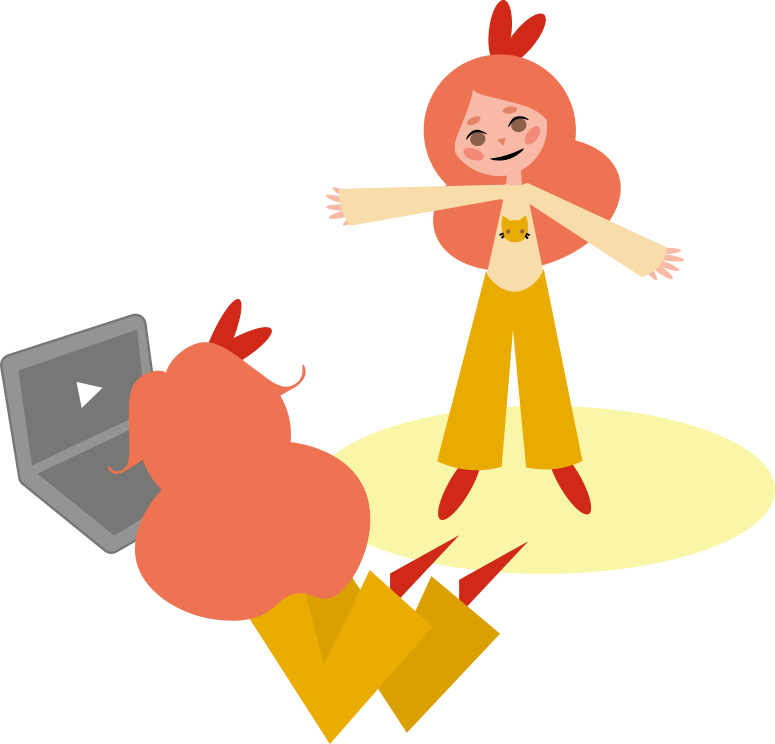
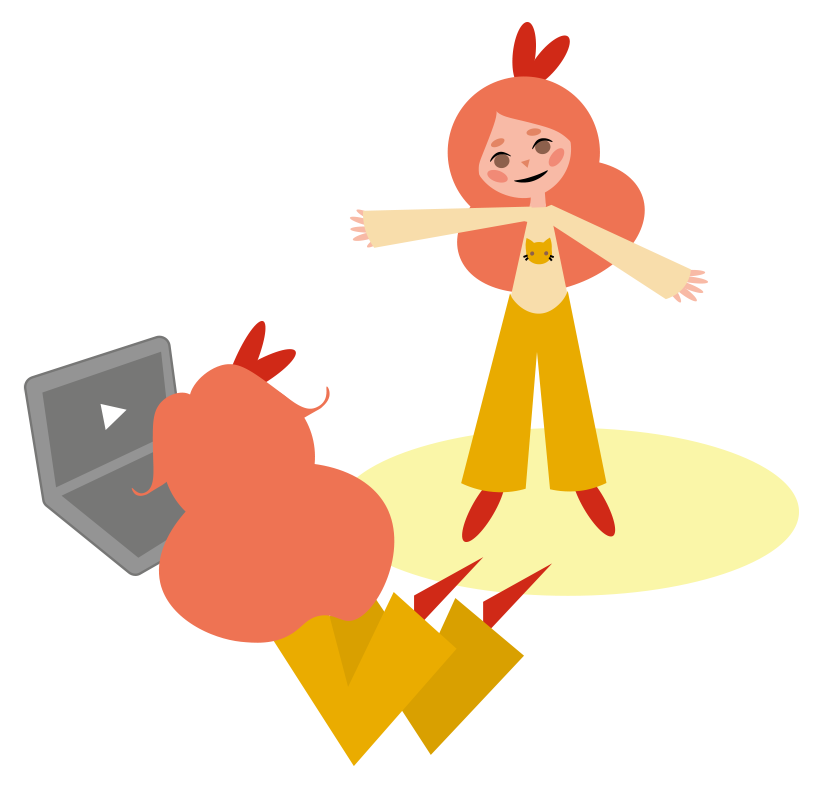
master

diff --git a/#source/scss/style.scss b/#source/scss/style.scss
@@ -169,19 +169,25 @@ img {
     }
     &__content {  
         display: flex;
-        padding: 100px 0;
+        padding: 30px 0 100px;
+        @media (min-width: 1441px) {
+            padding: 100px 0;
+        }
         @media (max-width: 1440px) {
-            flex-direction: column-reverse;
+            flex-direction: column;
         }
     }
     &__item {
         margin: 0px auto;
-        padding: 0 20px;
+        padding: 0 40px;
         @media (min-width: 1441px) {
             margin: -150px auto 0;
+            width: 50%;
         }
     }
     &__info {
+        margin: 0px auto;
+        text-align: justify;
         border-bottom: 5px solid #ee7353;
         @media (min-width: 1441px) {
             max-width: 700px;
@@ -218,22 +224,22 @@ img {
         }
     }
     &__img {
-        @media (min-width: 1921px) {
+        @media (min-width: 1441px) {
             width: 50%;
         }
-        @media (min-width: 1441px) {
-            margin: 0 50px 0 150px;
-        }
         @media (max-width: 1440px) {
-            width: 60%;
-            margin: 60px auto 0;
+            width: 80%;
+            margin: 0px auto 60px;
         }
         @media (max-width: 768px) {
             width: 90%;
-            margin: 60px auto 0;
+            margin: 0px auto 60px;
         }
         & img {
             width: 100%;
+            @media (min-width: 1441px) {
+                padding: 0 0px 0 70px;
+            }
         }
     }
 }
@@ -252,16 +258,21 @@ img {
     }
     &__content {  
         display: flex;
-        padding: 100px 0;
+        padding: 30px 0 100px;
+        @media (min-width: 1441px) {
+            padding: 100px 0;
+        }
         @media (max-width: 1440px) {
-            flex-direction: column-reverse;
+            flex-direction: column;
         }
     }
     &__item {
+        text-align: justify;
         margin: 0 auto;
-        padding: 0 20px;
+        padding: 0 40px;
         @media (min-width: 1441px) {
             margin: -150px auto 0;
+            width: 50%;
         }
     }
     &__info {
@@ -278,6 +289,10 @@ img {
             font-weight: 600;
             text-align: center;
             padding-bottom: 30px;
+            @media (max-width: 490px) {
+                font-size: 52px;
+                line-height: 40px;
+            }
         }
         &-text {
             font-size: 30px;
@@ -297,22 +312,20 @@ img {
         }
     }
     &__img {
-        @media (min-width: 1921px) {
-            width: 50%;
-        }
-        @media (min-width: 1441px) {
-            margin: 0 50px 0 0px;
-        }
+        width: 50%;
         @media (max-width: 1440px) {
-            width: 60%;
-            margin: 60px auto 0;
+            width: 80%;
+            margin: 60px auto;
         }
         @media (max-width: 768px) {
             width: 90%;
-            margin: 60px auto 0;
+            margin: 60px auto;
         }
         & img {
             width: 100%;
+            @media (min-width: 1441px) {
+                padding: 0 0px 0 0px;
+            }
         }
     }
 }
@@ -389,6 +402,7 @@ img {
         justify-content: center;
         margin-top: 100px;
         &-link {
+            line-height: 35px;
             font-family: $comfort;
             text-align: center;
             font-size: 25px;

diff --git a/css/style.css b/css/style.css
@@ -214,30 +214,39 @@ img {
   display: -webkit-box;
   display: -ms-flexbox;
   display: flex;
-  padding: 100px 0;
+  padding: 30px 0 100px;
+}
+
+@media (min-width: 1441px) {
+  .orange__content {
+    padding: 100px 0;
+  }
 }
 
 @media (max-width: 1440px) {
   .orange__content {
     -webkit-box-orient: vertical;
-    -webkit-box-direction: reverse;
-        -ms-flex-direction: column-reverse;
-            flex-direction: column-reverse;
+    -webkit-box-direction: normal;
+        -ms-flex-direction: column;
+            flex-direction: column;
   }
 }
 
 .orange__item {
   margin: 0px auto;
-  padding: 0 20px;
+  padding: 0 40px;
 }
 
 @media (min-width: 1441px) {
   .orange__item {
     margin: -150px auto 0;
+    width: 50%;
   }
 }
 
 .orange__info {
+  margin: 0px auto;
+  text-align: justify;
   border-bottom: 5px solid #ee7353;
 }
 
@@ -292,34 +301,34 @@ img {
   }
 }
 
-@media (min-width: 1921px) {
+@media (min-width: 1441px) {
   .orange__img {
     width: 50%;
   }
 }
 
-@media (min-width: 1441px) {
-  .orange__img {
-    margin: 0 50px 0 150px;
-  }
-}
-
 @media (max-width: 1440px) {
   .orange__img {
-    width: 60%;
-    margin: 60px auto 0;
+    width: 80%;
+    margin: 0px auto 60px;
   }
 }
 
 @media (max-width: 768px) {
   .orange__img {
     width: 90%;
-    margin: 60px auto 0;
+    margin: 0px auto 60px;
   }
 }
 
 .orange__img img {
   width: 100%;
+}
+
+@media (min-width: 1441px) {
+  .orange__img img {
+    padding: 0 0px 0 70px;
+  }
 }
 
 .orange-end img {
@@ -341,26 +350,34 @@ img {
   display: -webkit-box;
   display: -ms-flexbox;
   display: flex;
-  padding: 100px 0;
+  padding: 30px 0 100px;
+}
+
+@media (min-width: 1441px) {
+  .blue__content {
+    padding: 100px 0;
+  }
 }
 
 @media (max-width: 1440px) {
   .blue__content {
     -webkit-box-orient: vertical;
-    -webkit-box-direction: reverse;
-        -ms-flex-direction: column-reverse;
-            flex-direction: column-reverse;
+    -webkit-box-direction: normal;
+        -ms-flex-direction: column;
+            flex-direction: column;
   }
 }
 
 .blue__item {
+  text-align: justify;
   margin: 0 auto;
-  padding: 0 20px;
+  padding: 0 40px;
 }
 
 @media (min-width: 1441px) {
   .blue__item {
     margin: -150px auto 0;
+    width: 50%;
   }
 }
 
@@ -388,6 +405,13 @@ img {
   padding-bottom: 30px;
 }
 
+@media (max-width: 490px) {
+  .blue__info-title {
+    font-size: 52px;
+    line-height: 40px;
+  }
+}
+
 .blue__info-text {
   font-size: 30px;
   color: #43525d;
@@ -412,34 +436,32 @@ img {
   }
 }
 
-@media (min-width: 1921px) {
-  .blue__img {
-    width: 50%;
-  }
-}
-
-@media (min-width: 1441px) {
-  .blue__img {
-    margin: 0 50px 0 0px;
-  }
+.blue__img {
+  width: 50%;
 }
 
 @media (max-width: 1440px) {
   .blue__img {
-    width: 60%;
-    margin: 60px auto 0;
+    width: 80%;
+    margin: 60px auto;
   }
 }
 
 @media (max-width: 768px) {
   .blue__img {
     width: 90%;
-    margin: 60px auto 0;
+    margin: 60px auto;
   }
 }
 
 .blue__img img {
   width: 100%;
+}
+
+@media (min-width: 1441px) {
+  .blue__img img {
+    padding: 0 0px 0 0px;
+  }
 }
 
 .blue-top img {
@@ -540,6 +562,7 @@ img {
 }
 
 .products__btn-link {
+  line-height: 35px;
   font-family: "Comfortaa", cursive;
   text-align: center;
   font-size: 25px;

diff --git a/index.html b/index.html
@@ -25,7 +25,7 @@
 								Główna</a>
 						</li>
 						<li class="header__menu-item link-active"><a href=""
-								class="header__menu-link link-active">Postacie i produkty</a></li>
+								class="header__menu-link link-active">Postacie</a></li>
 						<li class="header__menu-item"><a href="" class="header__menu-link">O nas</a></li>
 						<li class="header__menu-item"><a href="" class="header__menu-link">Kontakt</a></li>
 					</ul>
